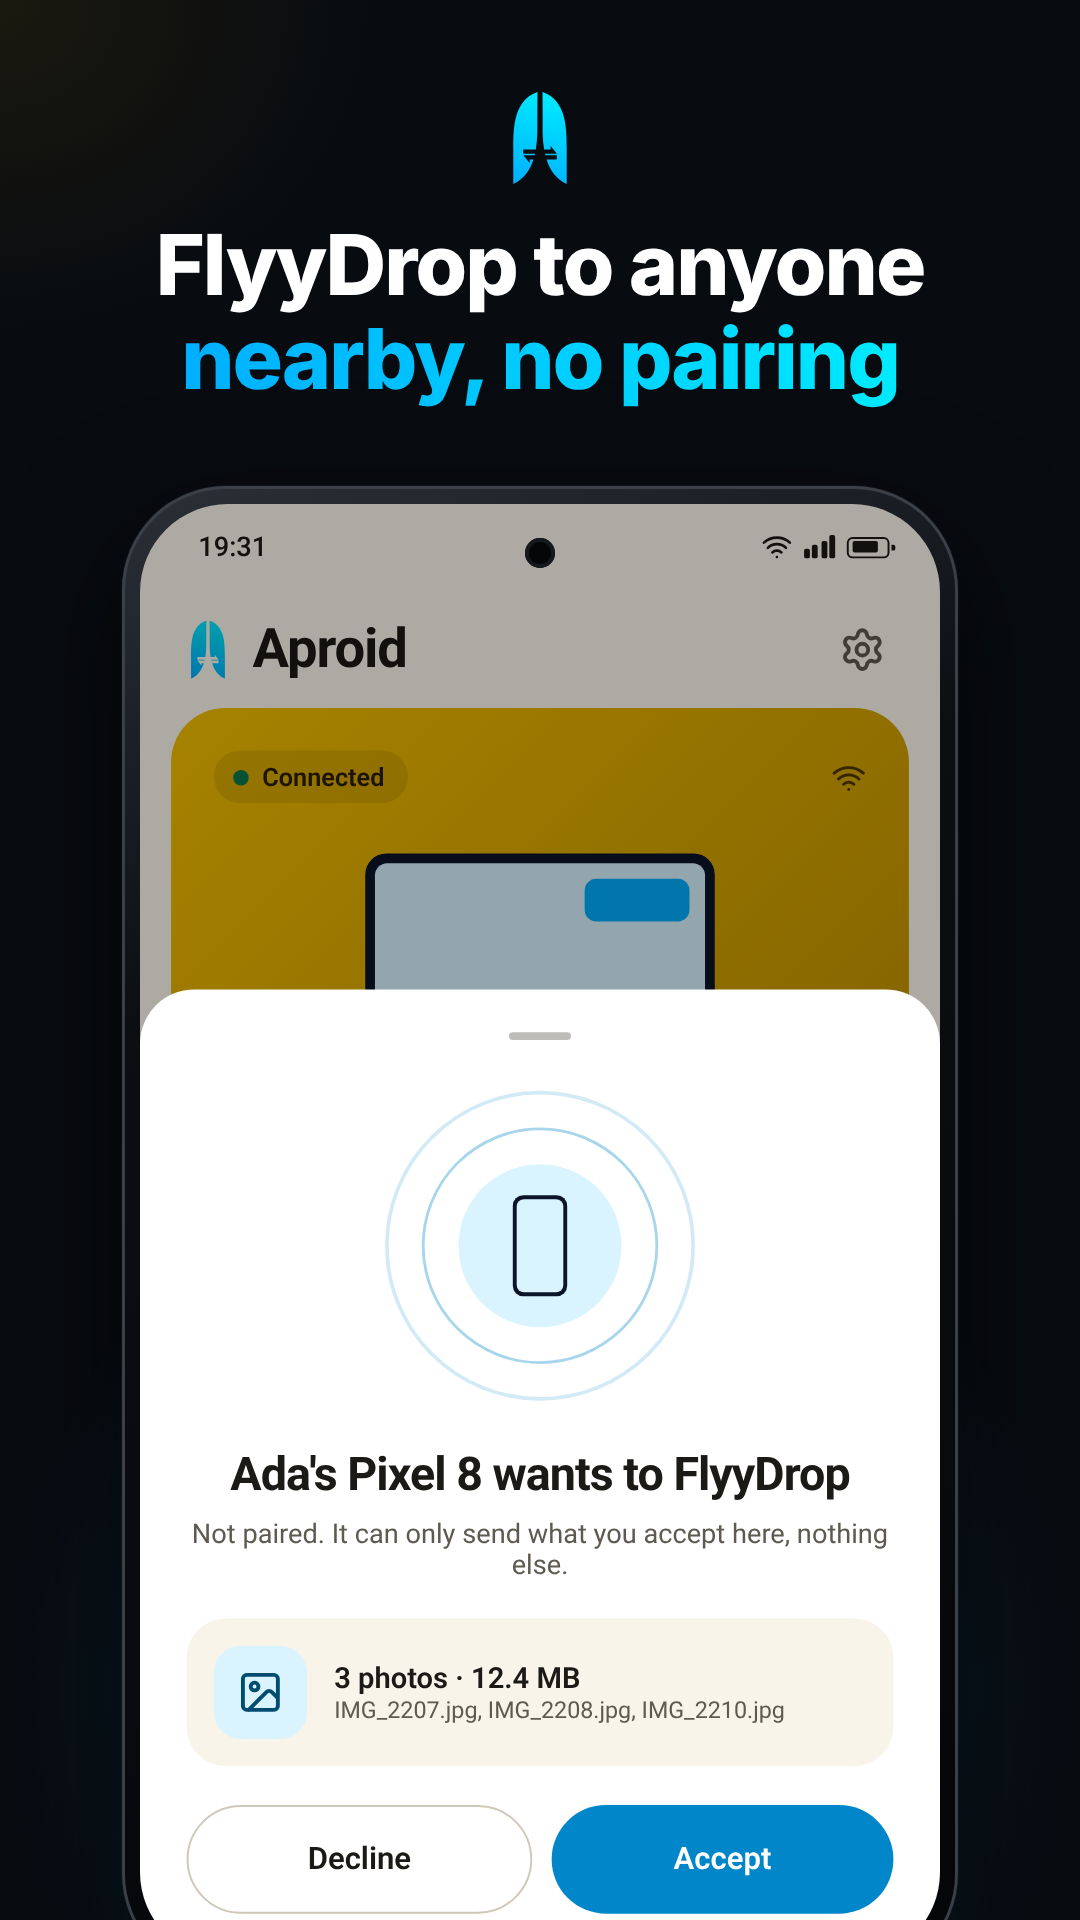
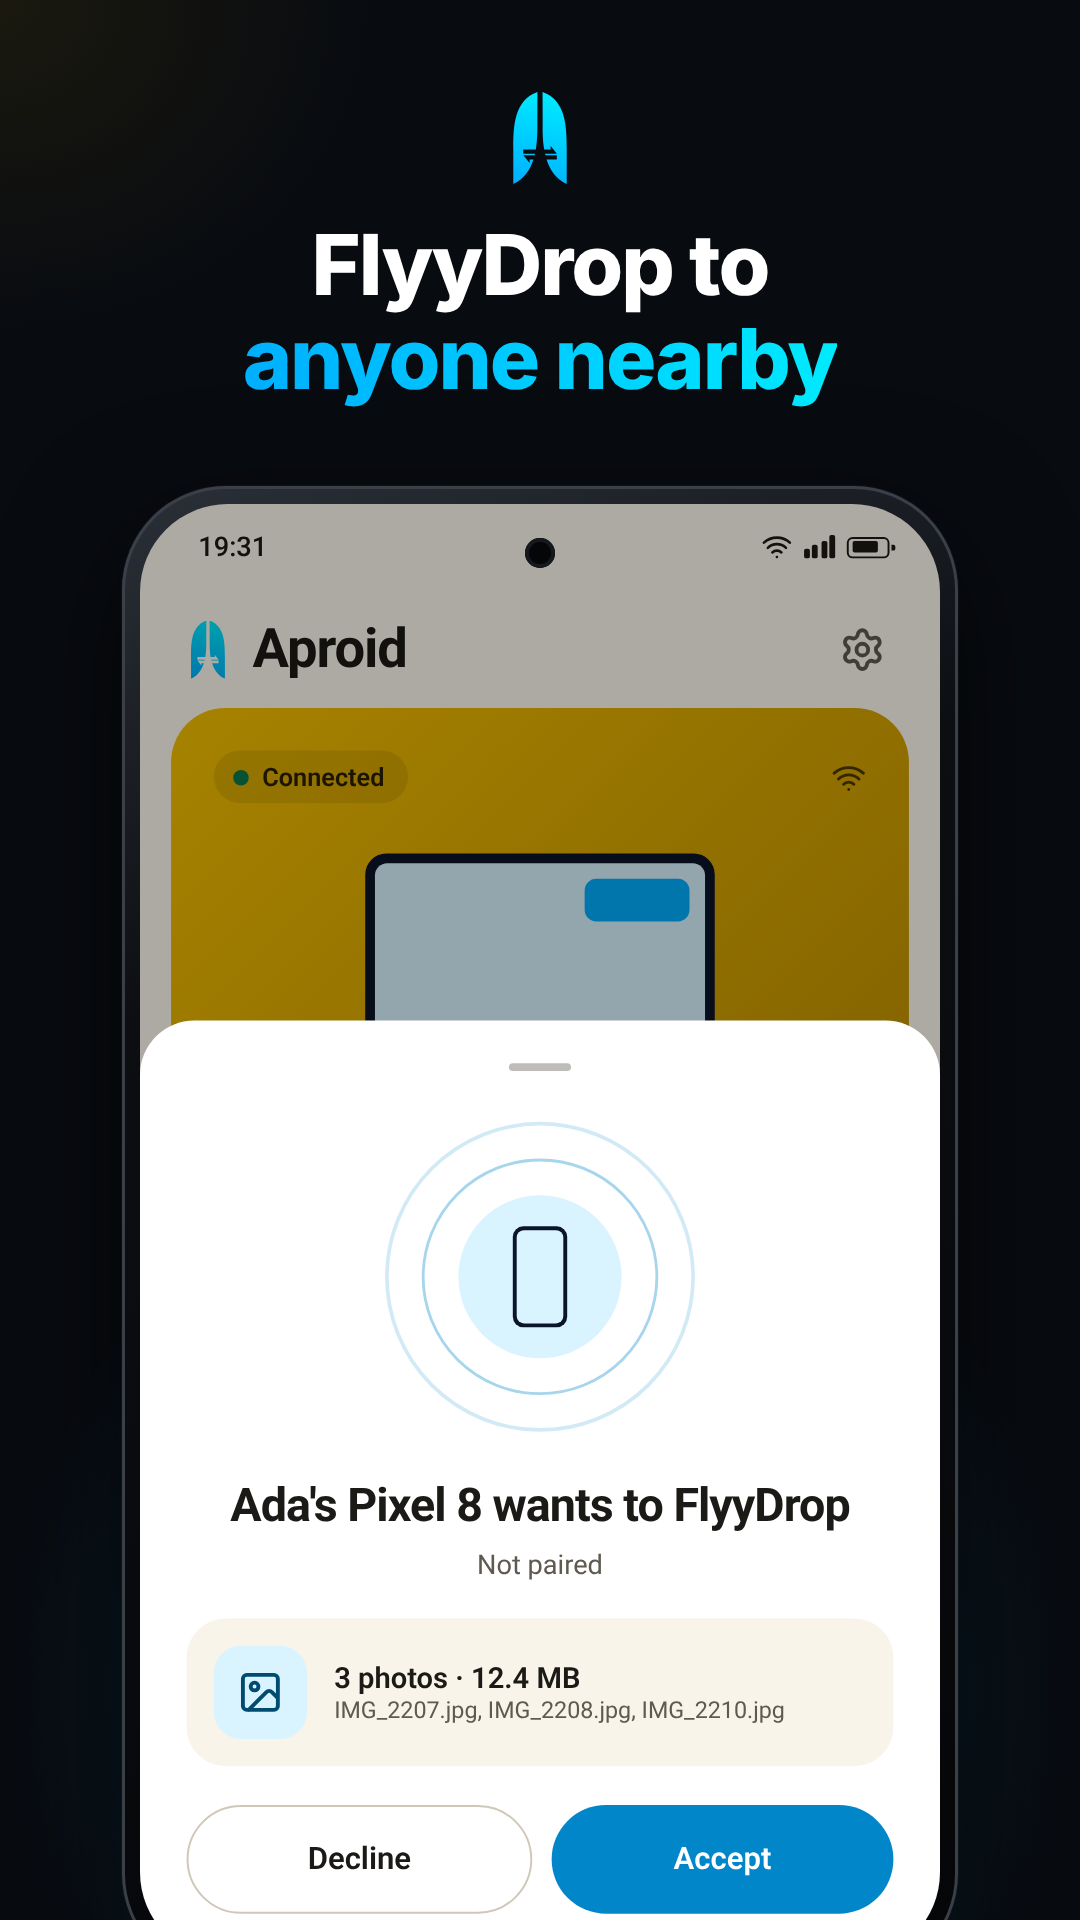
chore(store): match Play graphics to the shorter copy

Changed region(s): [[0.1222, 0.5, 0.8861, 0.8438], [0.1222, 0.125, 0.8556, 0.2188]]

diff --git a/store/android/page/app.js b/store/android/page/app.js
@@ -48,7 +48,7 @@ class AndroidApp {
   }
 
   carousel(names) {
-    const text = 'Notifications and clipboard go to all your computers';
+    const text = 'Syncing with all your computers';
 
     return `<div class="carousel">${this.hero(names[0], text)}${this.hero(names[1], text, 'peek')}</div>`;
   }
@@ -110,10 +110,9 @@ class AndroidApp {
 
     return this.sheet(`<div class="pair">
       ${this.laptop(150)}
-      <div><div class="title">Pair with ${name}?</div><div class="hint">Make sure your computer shows the same code.</div></div>
+      <div><div class="title">Pair with ${name}?</div><div class="hint">Same code on your computer?</div></div>
       <div class="digits">${digits}</div>
       <div class="buttons"><div class="filled">Pair</div><div class="outlined">Not now</div></div>
-      <div class="private">${this.icon('lock')}Encrypted, and never leaves your network</div>
     </div>`);
   }
 
@@ -128,7 +127,7 @@ class AndroidApp {
     const segments = modes.map((mode, i) => `<span class="${i === selected ? 'on' : ''}">${mode}</span>`).join('');
 
     return `<div class="flyy-card">
-      <div class="row"><span class="chip">${this.icon('radar')}</span><div><div class="title">Who can FlyyDrop to you</div><div class="hint">Everyone nearby for 9 more minutes</div></div></div>
+      <div class="row"><span class="chip">${this.icon('radar')}</span><div><div class="title">Who can FlyyDrop to you</div><div class="hint">9 min left</div></div></div>
       <div class="segments">${segments}</div>
     </div>`;
   }
@@ -136,7 +135,7 @@ class AndroidApp {
   flyyDropSheet(name, { title, detail }) {
     return this.sheet(`<div class="flyy">
       <div class="radar"><i></i><i></i><span class="core">${this.phoneArt(52)}</span></div>
-      <div><div class="title">${name} wants to FlyyDrop</div><div class="hint">Not paired. It can only send what you accept here, nothing else.</div></div>
+      <div><div class="title">${name} wants to FlyyDrop</div><div class="hint">Not paired</div></div>
       <div class="offer"><span class="chip">${this.icon('image')}</span><div><div class="name">${title}</div><div class="detail">${detail}</div></div></div>
       <div class="buttons"><div class="outlined">Decline</div><div class="filled">Accept</div></div>
     </div>`);

diff --git a/store/android/page/shots.js b/store/android/page/shots.js
@@ -51,7 +51,7 @@ class FeatureGraphic {
   render(assets) {
     const app = new AndroidApp(assets);
     const phone = new Phone(232, 520);
-    const screen = app.screen(app.home([app.hero('MacBook Pro', 'Notifications, clipboard and files are flowing'), app.tiles(), app.flyyDropCard()]));
+    const screen = app.screen(app.home([app.hero('MacBook Pro', 'Syncing'), app.tiles(), app.flyyDropCard()]));
 
     return `<div class="canvas feature">
       <div class="glow"></div>
@@ -60,13 +60,13 @@ class FeatureGraphic {
       <div class="copy">
         <div class="brand"><img src="${assets.mark}"><span>Aproid</span></div>
         <div class="headline">Your Android phone,<br><span class="accent">on your Mac and PC</span></div>
-        <div class="sub">FlyyDrop files to anyone nearby, plus<br>texts, calls and notifications.</div>
+        <div class="sub">Texts, calls, notifications and files.</div>
       </div>
     </div>`;
   }
 }
 
-const FLOWING = 'Notifications, clipboard and files are flowing';
+const FLOWING = 'Syncing';
 
 const SHOTS = [
   new StoreShot({
@@ -84,7 +84,7 @@ const SHOTS = [
   }),
   new StoreShot({
     id: '02-flyydrop',
-    lines: ['FlyyDrop to anyone', 'nearby, no pairing'],
+    lines: ['FlyyDrop to', 'anyone nearby'],
     screen: (app) => app.screen(
       app.home([app.hero('MacBook Pro', FLOWING), app.tiles(), app.flyyDropCard()]),
       app.flyyDropSheet("Ada's Pixel 8", { title: '3 photos · 12.4 MB', detail: 'IMG_2207.jpg, IMG_2208.jpg, IMG_2210.jpg' }),
@@ -92,7 +92,7 @@ const SHOTS = [
   }),
   new StoreShot({
     id: '03-send-files',
-    lines: ['Send files', 'without the cable'],
+    lines: ['Send files', 'in seconds'],
     screen: (app) => app.screen(
       app.home([app.hero('MacBook Pro', FLOWING), app.tiles()]),
       app.shareSheet({
@@ -134,7 +134,7 @@ const SHOTS = [
           { icon: 'clipboard', title: 'Copied from Work PC', detail: 'Wi-Fi password: blue-lagoon-42', when: '1 min. ago' },
         ]),
       ]),
-      app.toast('Clipboard sent to your computer'),
+      app.toast('Clipboard sent'),
     ),
   }),
   new StoreShot({
